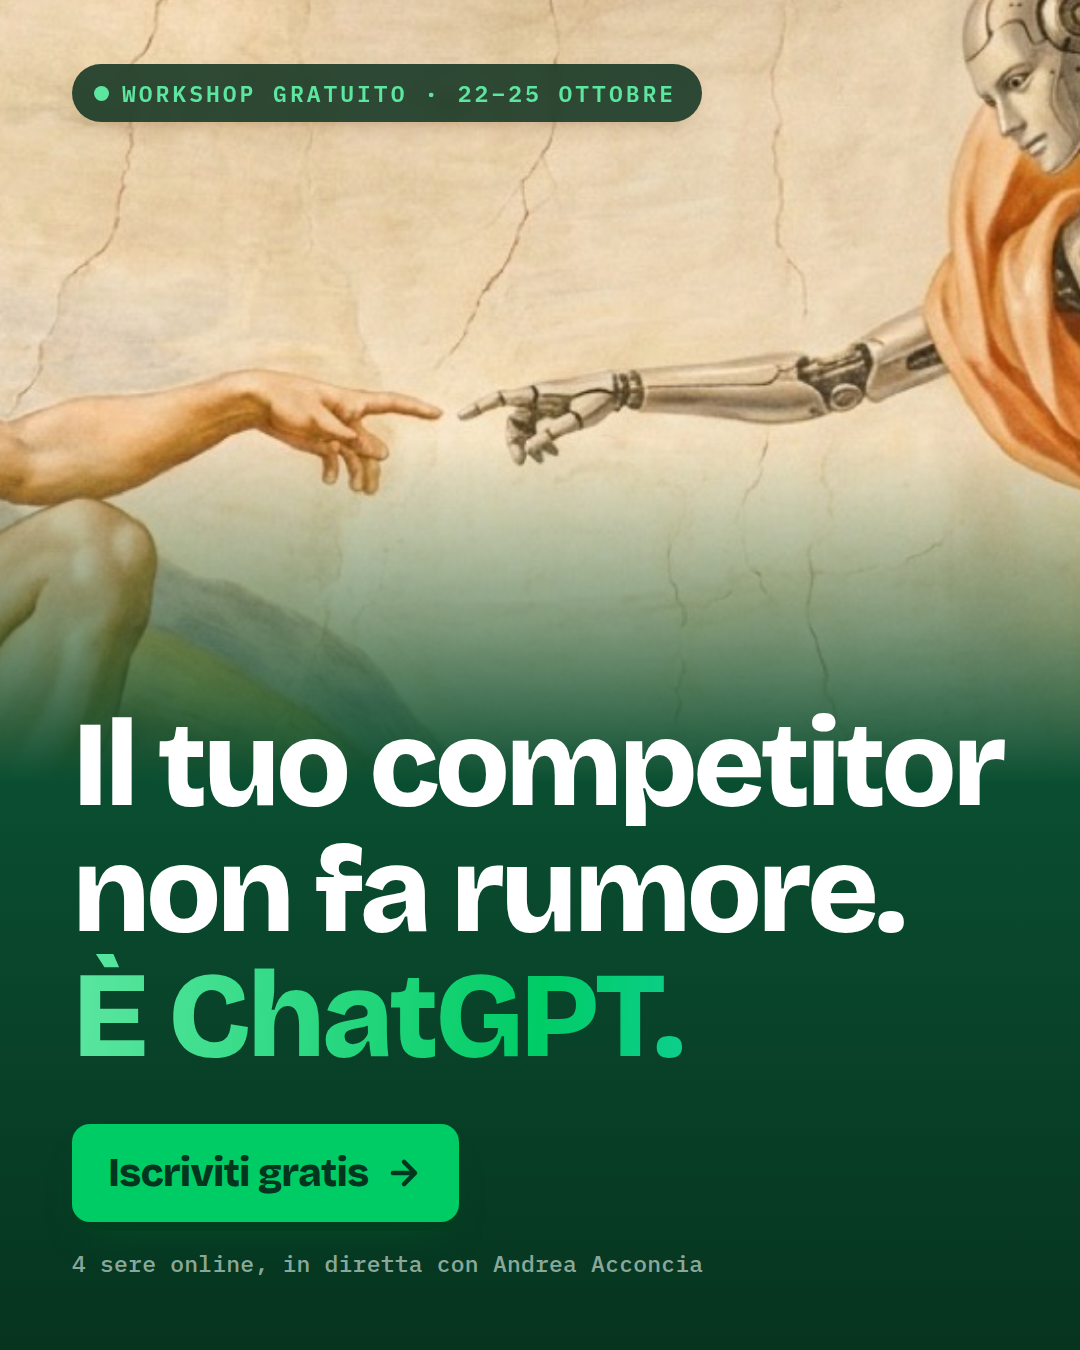
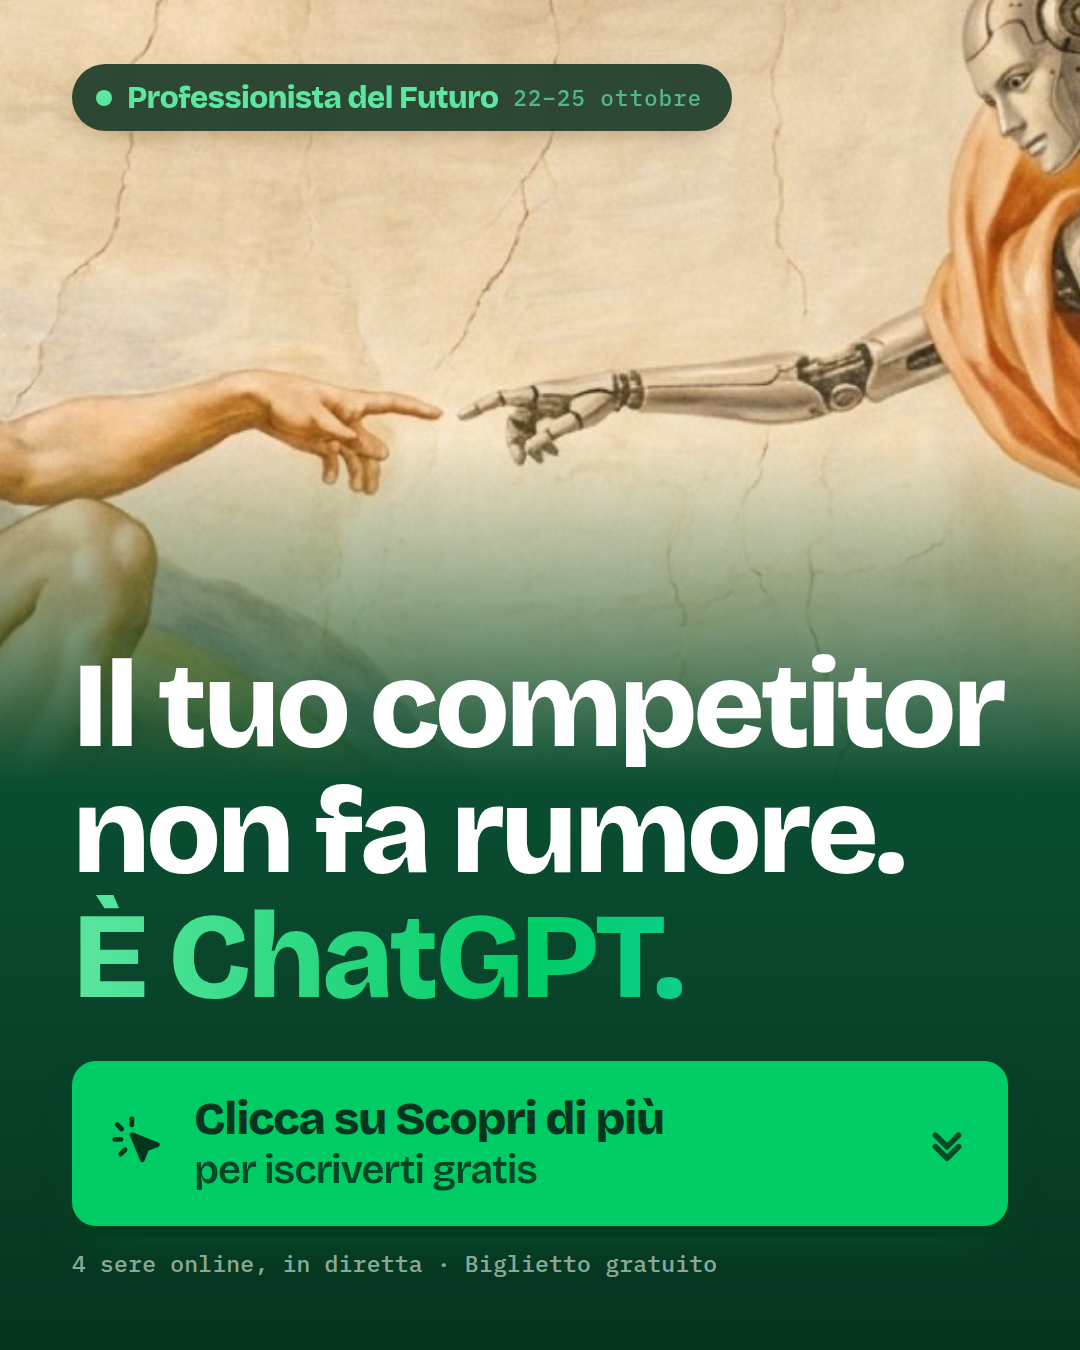
CTA a tutta larghezza e nome del workshop sul creativo
La pillola in alto porta ora il nome "Professionista del Futuro" con le
date accanto. Il bottone diventa una barra piena su due righe — "Clicca
su Scopri di più / per iscriverti gratis" — con le doppie frecce rivolte
in basso, verso il punto in cui Meta disegna il proprio bottone.

Claude-Session: https://claude.ai/code/session_011n96Cod1T52G2mX253xFTh

Changed region(s): [[0.0611, 0.4667, 0.9472, 0.9644], [0.0611, 0.0311, 0.7028, 0.1244]]

diff --git a/src/workshop/template.js b/src/workshop/template.js
@@ -90,37 +90,53 @@ body{overflow:hidden;background:${t.base};-webkit-font-smoothing:antialiased}
 /* ---------- contenuto ---------- */
 .in{position:absolute;inset:0;z-index:2;display:flex;flex-direction:column;padding:64px 72px 72px}
 
-.tag{align-self:flex-start;display:inline-flex;align-items:center;gap:13px;
-  background:${t.tagBg};border-radius:999px;padding:14px 26px 14px 22px;
-  font-family:'IBM Plex Mono',monospace;font-weight:600;font-size:23px;letter-spacing:.13em;
-  text-transform:uppercase;color:${t.tagInk};
-  box-shadow:0 10px 26px -14px rgba(122,80,40,.55);backdrop-filter:blur(6px)}
-.tag .dot{width:15px;height:15px;border-radius:50%;background:${t.dot}}
+.tag{align-self:flex-start;display:flex;align-items:center;gap:15px;
+  background:${t.tagBg};border-radius:999px;padding:15px 30px 15px 24px;
+  box-shadow:0 12px 30px -14px rgba(122,80,40,.55);backdrop-filter:blur(6px)}
+.tag .dot{width:16px;height:16px;border-radius:50%;background:${t.dot};flex:0 0 16px}
+.tag .name{font-family:'Bricolage Grotesque',sans-serif;font-weight:800;font-size:31px;
+  letter-spacing:-.02em;color:${t.tagInk}}
+.tag .when{font-family:'IBM Plex Mono',monospace;font-weight:500;font-size:22px;
+  letter-spacing:.06em;color:${t.tagInk};opacity:.72}
 
 .hook{margin-top:auto;font-family:'Bricolage Grotesque',sans-serif;font-weight:800;
   font-size:112px;line-height:1.03;letter-spacing:-.035em}
 .ln{display:block;white-space:nowrap}
 .hi{background:${t.glow};-webkit-background-clip:text;background-clip:text;color:transparent}
 
-.bottom{margin-top:44px;display:flex;align-items:center;gap:26px;flex-wrap:wrap}
-.pill{display:inline-flex;align-items:center;gap:17px;background:${t.pillBg};color:${t.pillInk};
-  border-radius:18px;padding:25px 36px;font-family:'Bricolage Grotesque',sans-serif;
-  font-weight:800;font-size:40px;letter-spacing:-.02em;
-  box-shadow:0 9px 0 ${t.pillShadow},0 24px 40px -22px rgba(4,92,46,.7)}
-.foot{font-family:'IBM Plex Mono',monospace;font-weight:500;font-size:23px;
-  letter-spacing:.01em;color:${t.foot}}
+.bottom{margin-top:40px}
+.pill{display:flex;align-items:center;gap:26px;background:${t.pillBg};color:${t.pillInk};
+  border-radius:24px;padding:32px 38px;
+  box-shadow:0 11px 0 ${t.pillShadow},0 28px 48px -22px rgba(4,92,46,.75)}
+.pill .hand{flex:0 0 auto;display:flex}
+.pill .txt{flex:1 1 auto;min-width:0;font-family:'Bricolage Grotesque',sans-serif;
+  font-weight:800;font-size:46px;line-height:1.14;letter-spacing:-.025em}
+.pill .txt .l2{display:block;font-weight:600;font-size:40px;margin-top:3px;opacity:.88}
+.pill .chev{flex:0 0 auto;display:flex;opacity:.85}
+.foot{display:block;margin-top:22px;font-family:'IBM Plex Mono',monospace;font-weight:500;
+  font-size:23px;letter-spacing:.01em;color:${t.foot}}
 </style></head>
 <body>
 <div class="ad">
   <div class="photo"><img src="../../assets/sales/${esc(ad.photo)}" alt=""></div>
   <div class="veil"></div>
   <div class="in">
-    <span class="tag"><span class="dot"></span>${esc(ad.tag || brand.tag)}</span>
+    <span class="tag"><span class="dot"></span><span class="name">${esc(brand.product)}</span><span class="when">${esc(brand.when)}</span></span>
     <h1 class="hook" id="hook">${lines}</h1>
     <div class="bottom">
-      <span class="pill">${esc(brand.cta)}
-        <svg width="38" height="38" viewBox="0 0 24 24" fill="none" stroke="currentColor"
-             stroke-width="2.8" stroke-linecap="round" stroke-linejoin="round"><path d="M5 12h13M12 5l7 7-7 7"/></svg>
+      <span class="pill">
+        <span class="hand">
+          <svg width="58" height="58" viewBox="0 0 24 24" fill="none" stroke="currentColor"
+               stroke-width="2" stroke-linecap="round">
+            <path d="M9 4.5V2M4.8 6.2 3 4.4M4.5 10.5H2M6.2 14.8 4.4 16.6"/>
+            <path d="m9.2 8.6 10.4 4.1-4.5 1.7-1.7 4.5z" fill="currentColor" stroke-linejoin="round"/>
+          </svg>
+        </span>
+        <span class="txt">${esc(brand.cta1)}<span class="l2">${esc(brand.cta2)}</span></span>
+        <span class="chev">
+          <svg width="46" height="46" viewBox="0 0 24 24" fill="none" stroke="currentColor"
+               stroke-width="3" stroke-linecap="round" stroke-linejoin="round"><path d="m6 8 6 6 6-6M6 14l6 6 6-6"/></svg>
+        </span>
       </span>
       <span class="foot">${esc(brand.foot)}</span>
     </div>

diff --git a/README.md b/README.md
@@ -88,9 +88,12 @@ npm run build:workshop   # -> out/workshop/
 Un creativo da feed non è una pagina rimpicciolita: è **un concetto solo**, che
 si legge in un secondo col pollice in movimento. Quindi:
 
-- **foto in alto** (le stesse immagini della sales, scaricate in `assets/sales/`),
+- **nome del workshop** in alto, in una pillola sopra la foto,
+- **foto** (le stesse immagini della sales, scaricate in `assets/sales/`),
 - **hook grande**: massimo tre righe, una frase sola,
-- **bottone verde** e una riga di servizio. Nient'altro.
+- **barra CTA a tutta larghezza** — *Clicca su Scopri di più / per iscriverti
+  gratis*, con le frecce rivolte verso il basso, dove Meta mette il suo bottone —
+  e una riga di servizio. Nient'altro.
 
 Niente citazioni, elenchi, chip, prezzi o URL nell'immagine: quella roba sta
 nella pagina, che è a un tap di distanza. Il richiamo alla sales passa dalla
